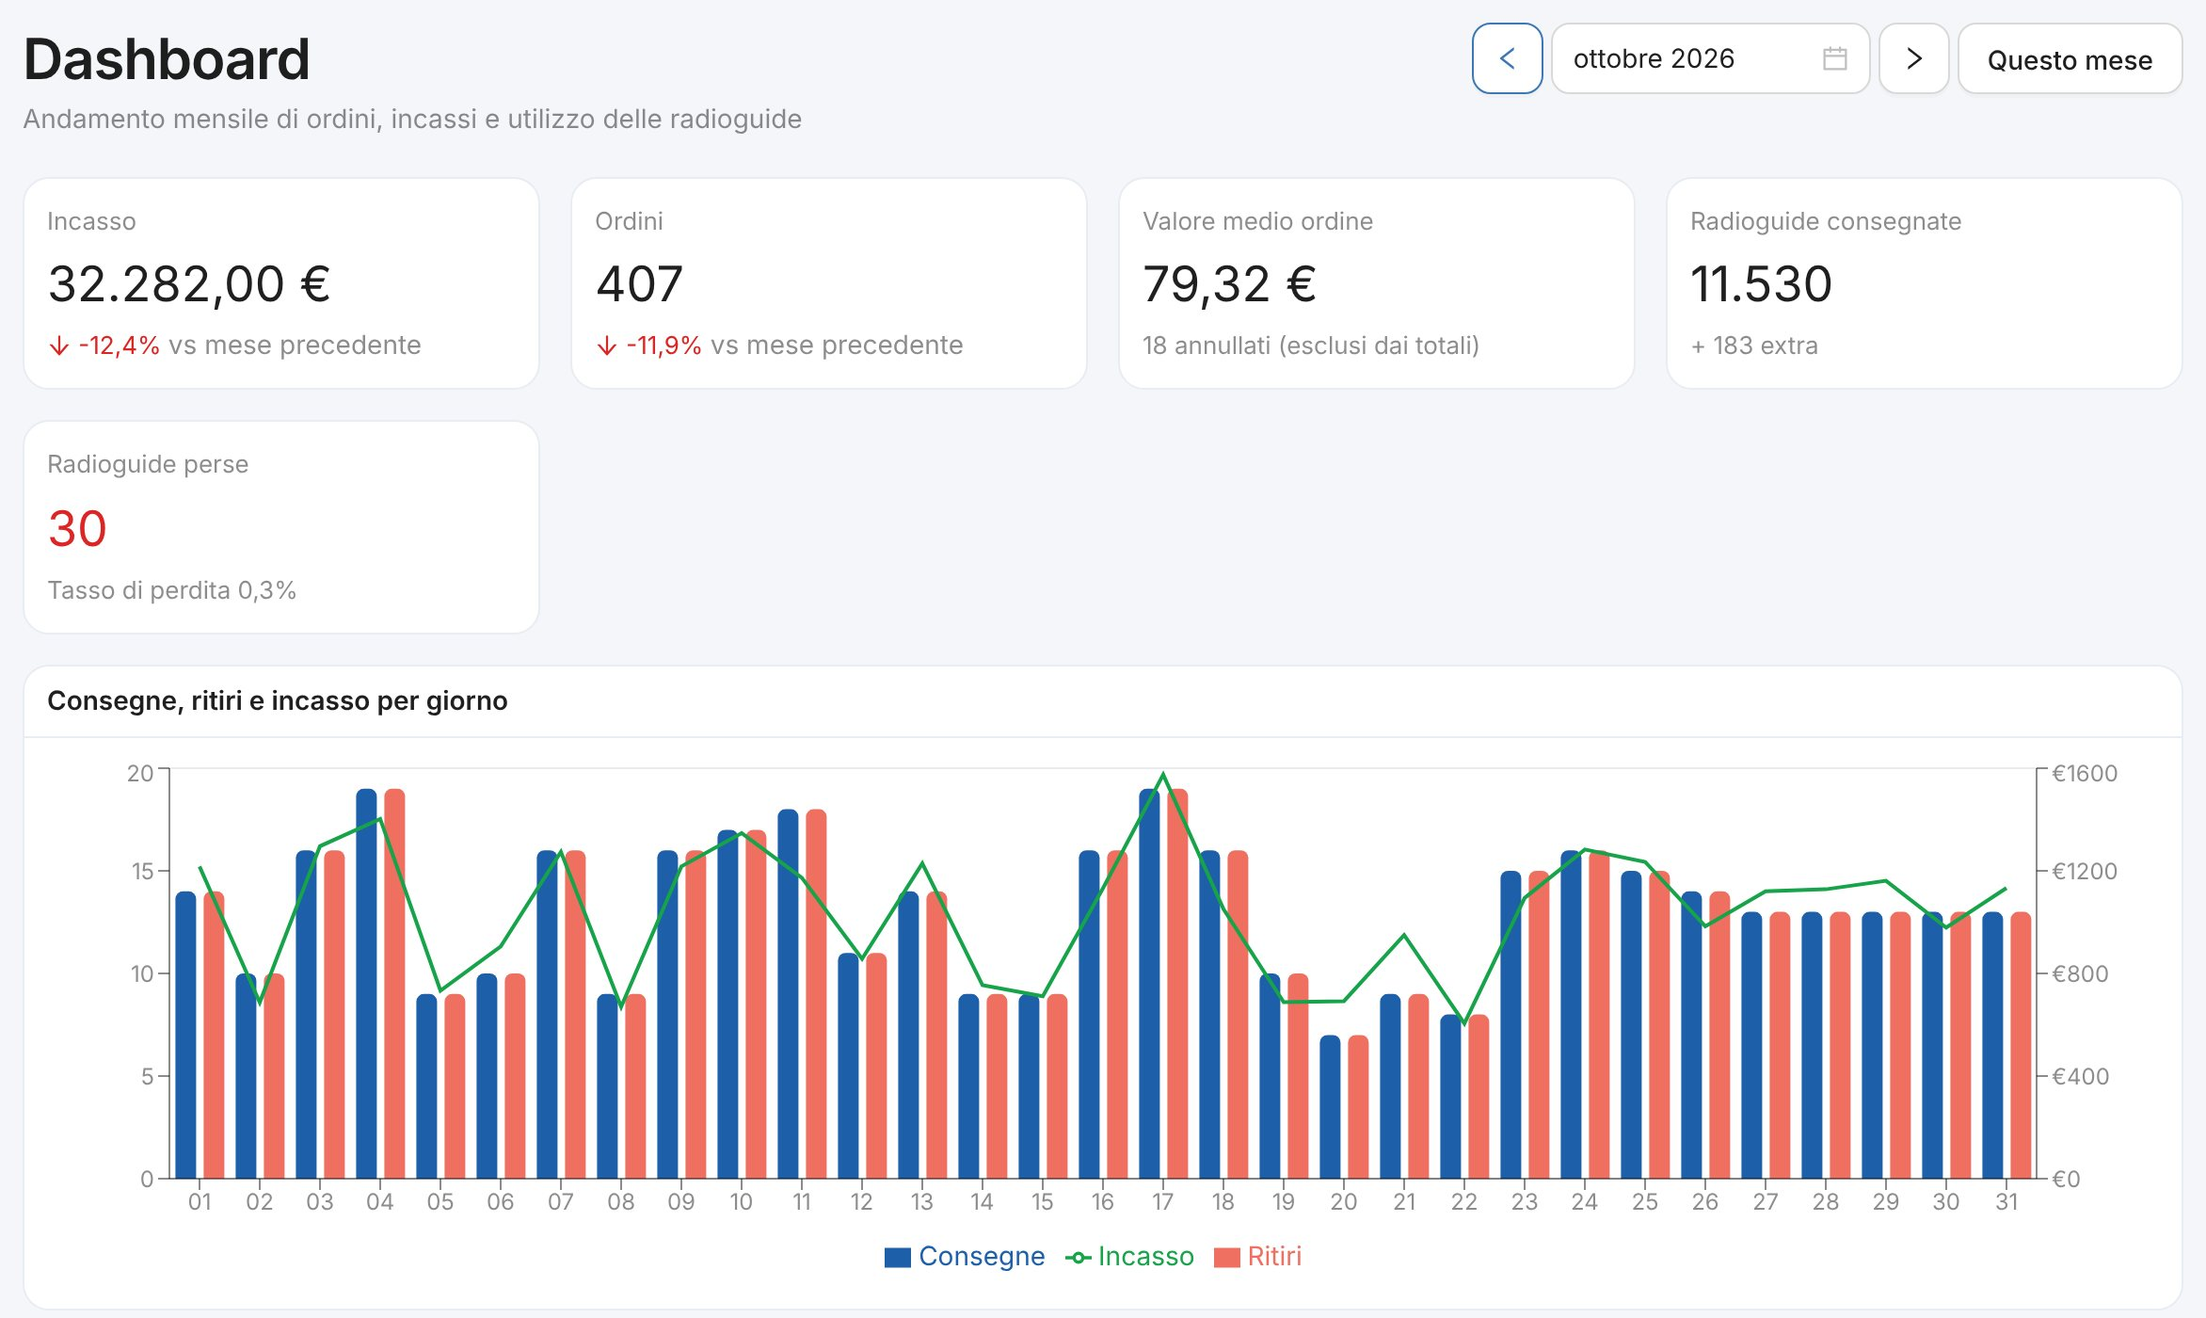
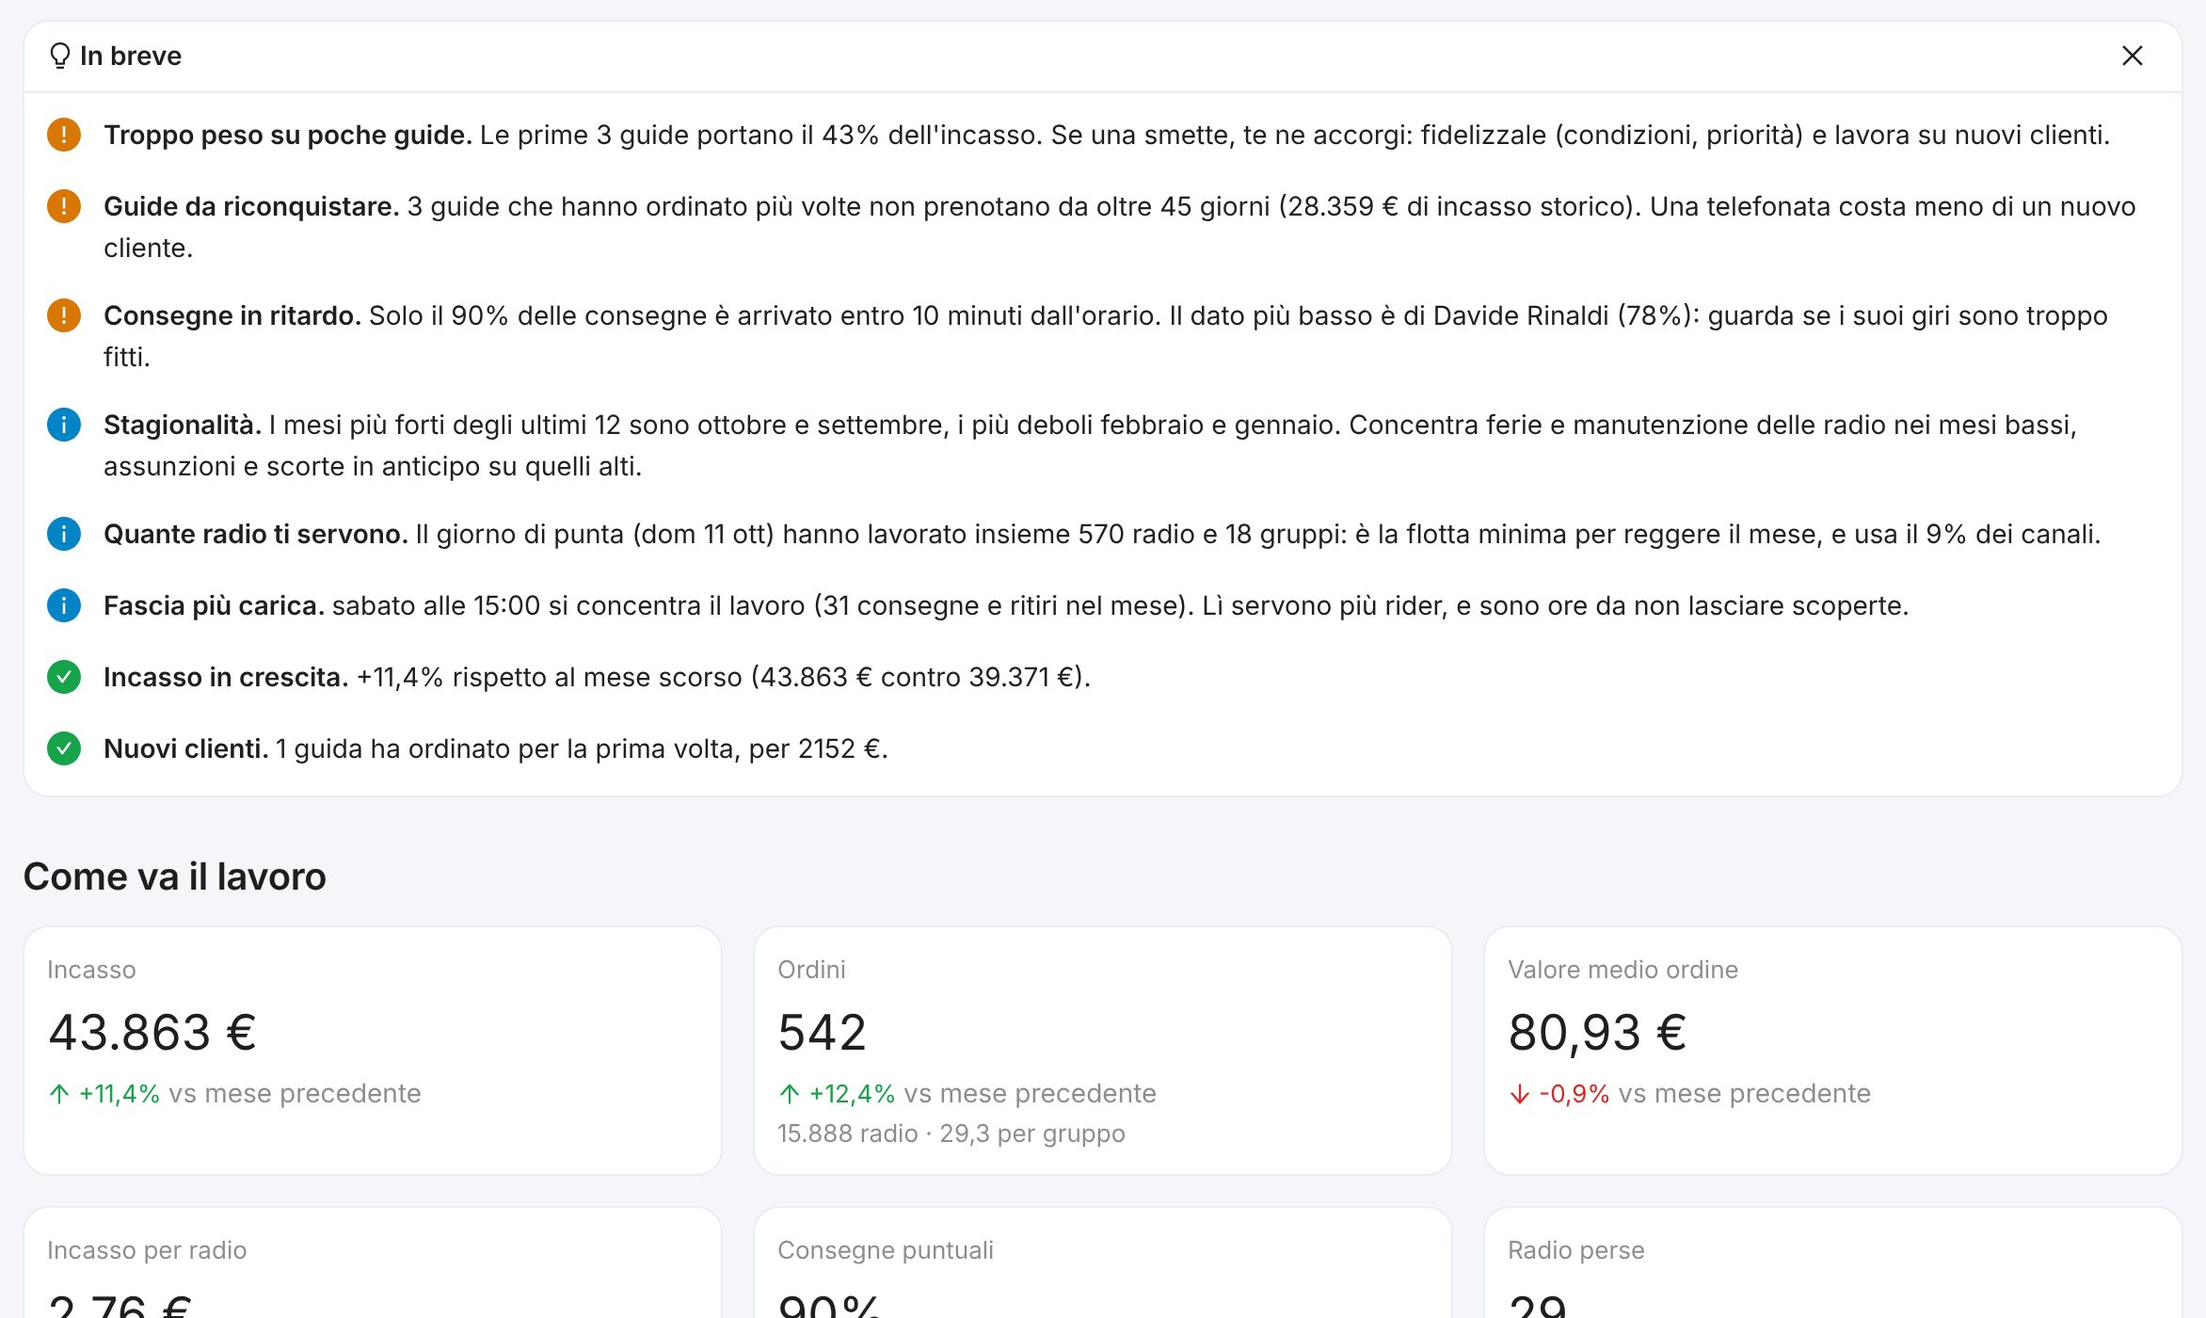
feat(dashboard): closable info panels, tighter alerts, landing section for the new dashboard
The notes (month in progress, needs attention, in short) can be hidden and
shown again from toggle buttons; the choice is remembered in the browser.
Alerts now only list what is urgent: pickups overdue, deliveries due in 48
hours and pickups due in 24 hours without a rider.
Landing: dashboard section rewritten in four languages with a new screenshot.

Claude-Session: https://claude.ai/code/session_01MFmSkEmWKdXgFVV1d9rA7X

diff --git a/src/features/landing/i18n.ts b/src/features/landing/i18n.ts
@@ -180,10 +180,10 @@ const it: Dict = {
         points: ["La guida non deve creare un account", "Puoi chiudere le prenotazioni online quando vuoi"],
       },
       stats: {
-        label: "Statistiche",
-        title: "Il mese in numeri, senza Excel",
-        text: "Incasso, ordini, radio consegnate e perse, a confronto con il mese precedente. In più gli orari di punta, le guide che lavorano di più e i luoghi più frequenti.",
-        points: ["Esportazione CSV dal calendario"],
+        label: "Dashboard",
+        title: "Dai numeri alle decisioni",
+        text: "Non solo incassi: la dashboard confronta il mese con il precedente e te lo spiega in parole semplici. Quante radio servono nei giorni di punta, quando servono più rider, da quali guide dipende l'incasso e quali hanno smesso di prenotare.",
+        points: ["Avvisi su ritiri in ritardo e consegne senza rider", "Stagionalità degli ultimi 12 mesi, per pianificare", "Esportazione CSV dal calendario"],
       },
     },
     moreTitle: "E inoltre",
@@ -355,10 +355,10 @@ const en: Dict = {
         points: ["Guides don't need an account", "Close online bookings whenever you want"],
       },
       stats: {
-        label: "Statistics",
-        title: "The month in numbers, without a spreadsheet",
-        text: "Revenue, orders, radios delivered and lost, compared with the previous month. Plus peak hours, your busiest guides and the most frequent locations.",
-        points: ["CSV export from the calendar"],
+        label: "Dashboard",
+        title: "From numbers to decisions",
+        text: "More than totals: the dashboard compares the month with the last one and explains it in plain words. How many radios you need on peak days, when you need more riders, which guides your revenue depends on, and which have stopped booking.",
+        points: ["Alerts for late pickups and deliveries without a rider", "Twelve months of seasonality, to plan ahead", "CSV export from the calendar"],
       },
     },
     moreTitle: "Also included",
@@ -530,10 +530,10 @@ const de: Dict = {
         points: ["Gästeführer brauchen kein Konto", "Online-Buchungen jederzeit schließen"],
       },
       stats: {
-        label: "Statistiken",
-        title: "Der Monat in Zahlen, ohne Tabellenkalkulation",
-        text: "Umsatz, Aufträge, gelieferte und verlorene Geräte im Vergleich zum Vormonat. Dazu Stoßzeiten, die aktivsten Gästeführer und die häufigsten Orte.",
-        points: ["CSV-Export aus dem Kalender"],
+        label: "Dashboard",
+        title: "Von Zahlen zu Entscheidungen",
+        text: "Mehr als Summen: Das Dashboard vergleicht den Monat mit dem Vormonat und erklärt es in einfachen Worten. Wie viele Geräte Sie an Spitzentagen brauchen, wann mehr Fahrer nötig sind, von welchen Gästeführern Ihr Umsatz abhängt und welche nicht mehr buchen.",
+        points: ["Hinweise auf verspätete Abholungen und Lieferungen ohne Fahrer", "Saisonverlauf der letzten 12 Monate zum Planen", "CSV-Export aus dem Kalender"],
       },
     },
     moreTitle: "Außerdem dabei",
@@ -705,10 +705,10 @@ const fr: Dict = {
         points: ["Pas de compte à créer pour le guide", "Fermez les réservations en ligne quand vous voulez"],
       },
       stats: {
-        label: "Statistiques",
-        title: "Le mois en chiffres, sans tableur",
-        text: "Chiffre d'affaires, commandes, récepteurs livrés et perdus, comparés au mois précédent. Avec les heures de pointe, les guides les plus actifs et les lieux les plus fréquents.",
-        points: ["Export CSV depuis le calendrier"],
+        label: "Tableau de bord",
+        title: "Des chiffres aux décisions",
+        text: "Plus que des totaux : le tableau de bord compare le mois au précédent et l'explique en mots simples. Combien de récepteurs il faut les jours de pointe, quand il faut plus de livreurs, de quels guides dépend votre chiffre d'affaires et lesquels ne réservent plus.",
+        points: ["Alertes sur les retraits en retard et les livraisons sans livreur", "Douze mois de saisonnalité pour planifier", "Export CSV depuis le calendrier"],
       },
     },
     moreTitle: "Également inclus",

diff --git a/src/features/dashboard/DashboardPage.tsx b/src/features/dashboard/DashboardPage.tsx
@@ -1,6 +1,6 @@
-import { useMemo, useState } from "react";
+import { useMemo, useState, type ReactNode } from "react";
 import { useQuery } from "@tanstack/react-query";
-import { Alert, Button, DatePicker, Flex } from "antd";
+import { Alert, Button, DatePicker, Flex, Typography } from "antd";
 import { LeftOutlined, RightOutlined } from "@ant-design/icons";
 import { dayjs, fmtNumber, type Dayjs } from "../../lib/dates";
 import { getErrorMessage } from "../../lib/errors";
@@ -8,7 +8,7 @@ import { PageHeader } from "../../shared/components/PageHeader";
 import { SectionSpinner } from "../../shared/components/Screens";
 import { usePageTitle } from "../../shared/hooks/usePageTitle";
 import { getDashboardInsights } from "./api";
-import { Alerts } from "./components/Alerts";
+import { Alerts, alertItems } from "./components/Alerts";
 import { Capacity } from "./components/Capacity";
 import { Digest } from "./components/Digest";
 import { Guides } from "./components/Guides";
@@ -18,7 +18,17 @@ import { Operations } from "./components/Operations";
 import { GroupTitle } from "./components/Section";
 import { StopsHeatmap } from "./components/StopsHeatmap";
 import { TrendChart } from "./components/TrendChart";
+import { usePanels } from "./usePanels";
 import { buildInsights, fmtEuro } from "./utils";
+
+/** Shows or hides one of the explanatory panels. */
+function PanelToggle({ on, onChange, children }: { on: boolean; onChange: (on: boolean) => void; children: ReactNode }) {
+  return (
+    <Button size="small" shape="round" type={on ? "primary" : "default"} aria-pressed={on} onClick={() => onChange(!on)}>
+      {children}
+    </Button>
+  );
+}
 
 export function DashboardPage() {
   usePageTitle("Dashboard");
@@ -29,6 +39,8 @@ export function DashboardPage() {
     queryFn: () => getDashboardInsights(month),
   });
   const insights = useMemo(() => (data ? buildInsights(data) : []), [data]);
+  const panels = usePanels();
+  const alertCount = data ? alertItems(data.alerts).length : 0;
 
   return (
     <>
@@ -57,10 +69,28 @@ export function DashboardPage() {
 
       {data && (
         <Flex vertical gap={16}>
-          {data.in_progress && (
+          <Flex gap={8} wrap align="center">
+            <Typography.Text type="secondary">Note:</Typography.Text>
+            {alertCount > 0 && (
+              <PanelToggle on={panels.isOpen("alerts")} onChange={(v) => panels.setOpen("alerts", v)}>
+                Da gestire ora ({alertCount})
+              </PanelToggle>
+            )}
+            <PanelToggle on={panels.isOpen("digest")} onChange={(v) => panels.setOpen("digest", v)}>
+              In breve
+            </PanelToggle>
+            {data.in_progress && (
+              <PanelToggle on={panels.isOpen("note")} onChange={(v) => panels.setOpen("note", v)}>
+                Mese in corso
+              </PanelToggle>
+            )}
+          </Flex>
+
+          {data.in_progress && panels.isOpen("note") && (
             <Alert
               type="info"
               showIcon
+              closable={{ onClose: () => panels.setOpen("note", false), "aria-label": "Nascondi Mese in corso" }}
               title={`Mese in corso: i dati arrivano fino al ${dayjs(data.through).format("D MMMM")} e sono confrontati con gli stessi giorni del mese scorso.`}
               description={
                 data.booked_ahead.orders > 0
@@ -70,8 +100,8 @@ export function DashboardPage() {
             />
           )}
 
-          <Alerts alerts={data.alerts} />
-          <Digest insights={insights} />
+          {panels.isOpen("alerts") && <Alerts alerts={data.alerts} onClose={() => panels.setOpen("alerts", false)} />}
+          {panels.isOpen("digest") && <Digest insights={insights} onClose={() => panels.setOpen("digest", false)} />}
 
           <GroupTitle>Come va il lavoro</GroupTitle>
           <Kpis data={data} />

diff --git a/src/features/dashboard/components/Alerts.tsx b/src/features/dashboard/components/Alerts.tsx
@@ -3,8 +3,8 @@ import { Link } from "react-router";
 import { fmtNumber } from "../../../lib/dates";
 import type { DashboardInsights } from "../api";
 
-/** What needs a decision today. Renders nothing when everything is in order. */
-export function Alerts({ alerts }: { alerts: DashboardInsights["alerts"] }) {
+/** The lines of the "needs attention" panel: empty when everything is in order. */
+export function alertItems(alerts: DashboardInsights["alerts"]): { key: string; text: string }[] {
   const items: { key: string; text: string }[] = [];
   const o = alerts.overdue_pickups;
   if (o.orders > 0) {
@@ -18,21 +18,28 @@ export function Alerts({ alerts }: { alerts: DashboardInsights["alerts"] }) {
   if (alerts.unassigned_deliveries > 0) {
     items.push({
       key: "deliveries",
-      text: `${alerts.unassigned_deliveries} ${alerts.unassigned_deliveries === 1 ? "consegna" : "consegne"} dei prossimi 7 giorni senza rider.`,
+      text: `${alerts.unassigned_deliveries} ${alerts.unassigned_deliveries === 1 ? "consegna" : "consegne"} nelle prossime 48 ore senza rider.`,
     });
   }
   if (alerts.unassigned_pickups > 0) {
     items.push({
       key: "pickups",
-      text: `${alerts.unassigned_pickups} ${alerts.unassigned_pickups === 1 ? "ritiro" : "ritiri"} dei prossimi 7 giorni senza rider.`,
+      text: `${alerts.unassigned_pickups} ${alerts.unassigned_pickups === 1 ? "ritiro" : "ritiri"} nelle prossime 24 ore senza rider.`,
     });
   }
+  return items;
+}
+
+/** What needs a decision today. Can be closed; the toggle above the page brings it back. */
+export function Alerts({ alerts, onClose }: { alerts: DashboardInsights["alerts"]; onClose: () => void }) {
+  const items = alertItems(alerts);
   if (items.length === 0) return null;
 
   return (
     <Alert
       type="warning"
       showIcon
+      closable={{ onClose, "aria-label": "Nascondi Da gestire ora" }}
       title="Da gestire ora"
       description={
         <Flex vertical gap={2}>

diff --git a/e2e/pages.spec.ts b/e2e/pages.spec.ts
@@ -114,13 +114,19 @@ test.describe("dashboard", () => {
     }
     // the month in progress says what it is measured against
     await expect(page.getByText("Mese in corso", { exact: false }).first()).toBeVisible();
-    await expect(page.getByText("In breve", { exact: true })).toBeVisible();
+    await expect(page.getByText("In breve", { exact: true }).first()).toBeVisible();
     await expect(page.getByText("Gli ultimi 12 mesi")).toBeVisible();
     await expect(page.getByText("Radio fuori nello stesso momento")).toBeVisible();
     await expect(page.getByText("Quando servono i rider")).toBeVisible();
     await expect(page.getByText("Chi porta l'incasso")).toBeVisible();
     await expect(page.getByText("Dove si consegna")).toBeVisible();
     await expect(page.locator(".recharts-surface").first()).toBeVisible();
+
+    // the explanatory panels can be hidden and brought back
+    await page.getByRole("button", { name: "Nascondi In breve" }).click();
+    await expect(page.getByRole("button", { name: "Nascondi In breve" })).toHaveCount(0);
+    await page.getByRole("button", { name: "In breve", exact: true }).click();
+    await expect(page.getByRole("button", { name: "Nascondi In breve" })).toBeVisible();
 
     // the trend can show another measure
     await page.getByText("Ordini", { exact: true }).last().click();

diff --git a/src/features/dashboard/components/Digest.tsx b/src/features/dashboard/components/Digest.tsx
@@ -1,6 +1,6 @@
 import type { ReactNode } from "react";
-import { Card, Flex, Typography } from "antd";
-import { BulbOutlined, CheckCircleFilled, ExclamationCircleFilled, InfoCircleFilled } from "@ant-design/icons";
+import { Button, Card, Flex, Typography } from "antd";
+import { BulbOutlined, CheckCircleFilled, CloseOutlined, ExclamationCircleFilled, InfoCircleFilled } from "@ant-design/icons";
 import type { Insight, Tone } from "../utils";
 
 const ICON: Record<Tone, { icon: ReactNode; color: string; label: string }> = {
@@ -10,7 +10,7 @@ const ICON: Record<Tone, { icon: ReactNode; color: string; label: string }> = {
 };
 
 /** The findings in plain words: what changed and what to do about it. */
-export function Digest({ insights }: { insights: Insight[] }) {
+export function Digest({ insights, onClose }: { insights: Insight[]; onClose: () => void }) {
   return (
     <Card
       size="small"
@@ -19,6 +19,7 @@ export function Digest({ insights }: { insights: Insight[] }) {
           <BulbOutlined /> In breve
         </span>
       }
+      extra={<Button type="text" size="small" icon={<CloseOutlined />} aria-label="Nascondi In breve" onClick={onClose} />}
     >
       {insights.length === 0 ? (
         <Typography.Text type="secondary">

diff --git a/src/features/dashboard/usePanels.ts b/src/features/dashboard/usePanels.ts
@@ -1,0 +1,33 @@
+import { useCallback, useState } from "react";
+
+/**
+ * The dashboard's explanatory panels can be hidden and shown again; the choice is kept in this browser.
+ * Storage can be unavailable (private mode, blocked): the panels then just start open.
+ */
+export type PanelKey = "note" | "alerts" | "digest";
+const STORAGE_KEY = "echobox-dashboard-panels";
+
+function read(): Partial<Record<PanelKey, boolean>> {
+  try {
+    return JSON.parse(window.localStorage.getItem(STORAGE_KEY) ?? "{}") ?? {};
+  } catch {
+    return {};
+  }
+}
+
+export function usePanels() {
+  const [state, setState] = useState(read);
+  const isOpen = (key: PanelKey) => state[key] !== false;
+  const setOpen = useCallback((key: PanelKey, open: boolean) => {
+    setState((prev) => {
+      const next = { ...prev, [key]: open };
+      try {
+        window.localStorage.setItem(STORAGE_KEY, JSON.stringify(next));
+      } catch {
+        /* keep it for this visit only */
+      }
+      return next;
+    });
+  }, []);
+  return { isOpen, setOpen };
+}

diff --git a/docs/TODO.md b/docs/TODO.md
@@ -93,3 +93,14 @@ deletion within 30 days after an e-mail request. Until the in-app flow exists th
 - [ ] Claims on the page, checked 2026-11-23: deletion within 30 days matches GDPR Art. 12(3) (one month, extendable by two with notice). **Backups: Supabase is self-hosted, so there are no managed backups: the page's "within 30 days" is true only if you set it up.** Run a scheduled `pg_dump` (or WAL archiving) of the database, store it off the server, encrypted, and delete copies older than 30 days; test a restore. If you keep backups longer, change the page. After a restore, re-apply any deletions made since the backup. Accounting retention of 10 years is the Italian rule (art. 2220 c.c.); Germany and France use other periods (6 to 10 years), so the page says "in Italy". Confirm with your accountant.
 - [ ] The page uses `support@echoboxlogistics.com`: switch to the real support address when the domain is final (also in the legal pages).
 - [ ] Play Console: fill the Data safety form to match (account data, name, phone, e-mail collected; deletion request link = the page URL) and keep the listing name equal to "EchoBox Logistics".
+
+## 10. Dashboard follow-ups
+
+The decision dashboard (`get_dashboard_insights`) is in. Next, once there is real usage to learn from:
+
+- [ ] **Fleet size** in the company settings (how many radios the company owns). With it the capacity chart can draw the limit and the findings can say "you are at 91% of your radios on peak days" instead of "this is the minimum fleet".
+- [ ] Cost of a lost radio in the settings, so losses can be shown in euros.
+- [ ] Company-level thresholds for the findings: how late is "on time" (10 minutes now), how long before a guide counts as lapsed (45 days), how much concentration is too much (40%).
+- [ ] Rider-level view for admins: stops per day, punctuality over time, per rider.
+- [ ] Revenue and orders by source and by guide over the 12 months (retention), and a forecast of the month from bookings already made.
+- [ ] Export of the month to CSV and PDF for the accountant.
